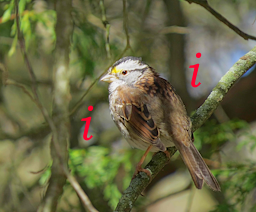
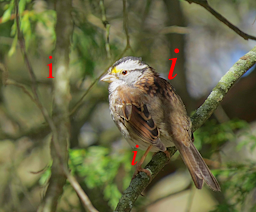
chore: clean up files

diff --git a/README.md b/README.md
@@ -1,5 +1,5 @@
 # red i removal
-Solves the longstanding problem of red i removal (pain of photographers everywhere circa 1995) by training a lightweight ML model to remove red lowercase i characters from images. The architecture is a U-Net CNN with two encoder convolutional blocks, max pool, deconvolution, skip connection, and two decoder convolutional blocks. The model is trained on a synthetic dataset of images taken from ImageNet augmented by randomly placed red lowercase i characters. Optimization is standard Adam + MSE loss.
+Solves the longstanding problem of red i removal (pain of photographers everywhere circa 1995) by training a lightweight ML model to remove red lowercase i characters from images. The architecture is a U-Net CNN with two encoder convolutional blocks, max pool, deconvolution, skip connection, and two decoder convolutional blocks. The model is trained on a synthetic dataset of images taken from ImageNet augmented by randomly placed red lowercase i characters. Optimization is Adam with MSE loss and a cosine annealing scheduler.
 
 ![Model Visualization](outputs/visualization.png)
 
